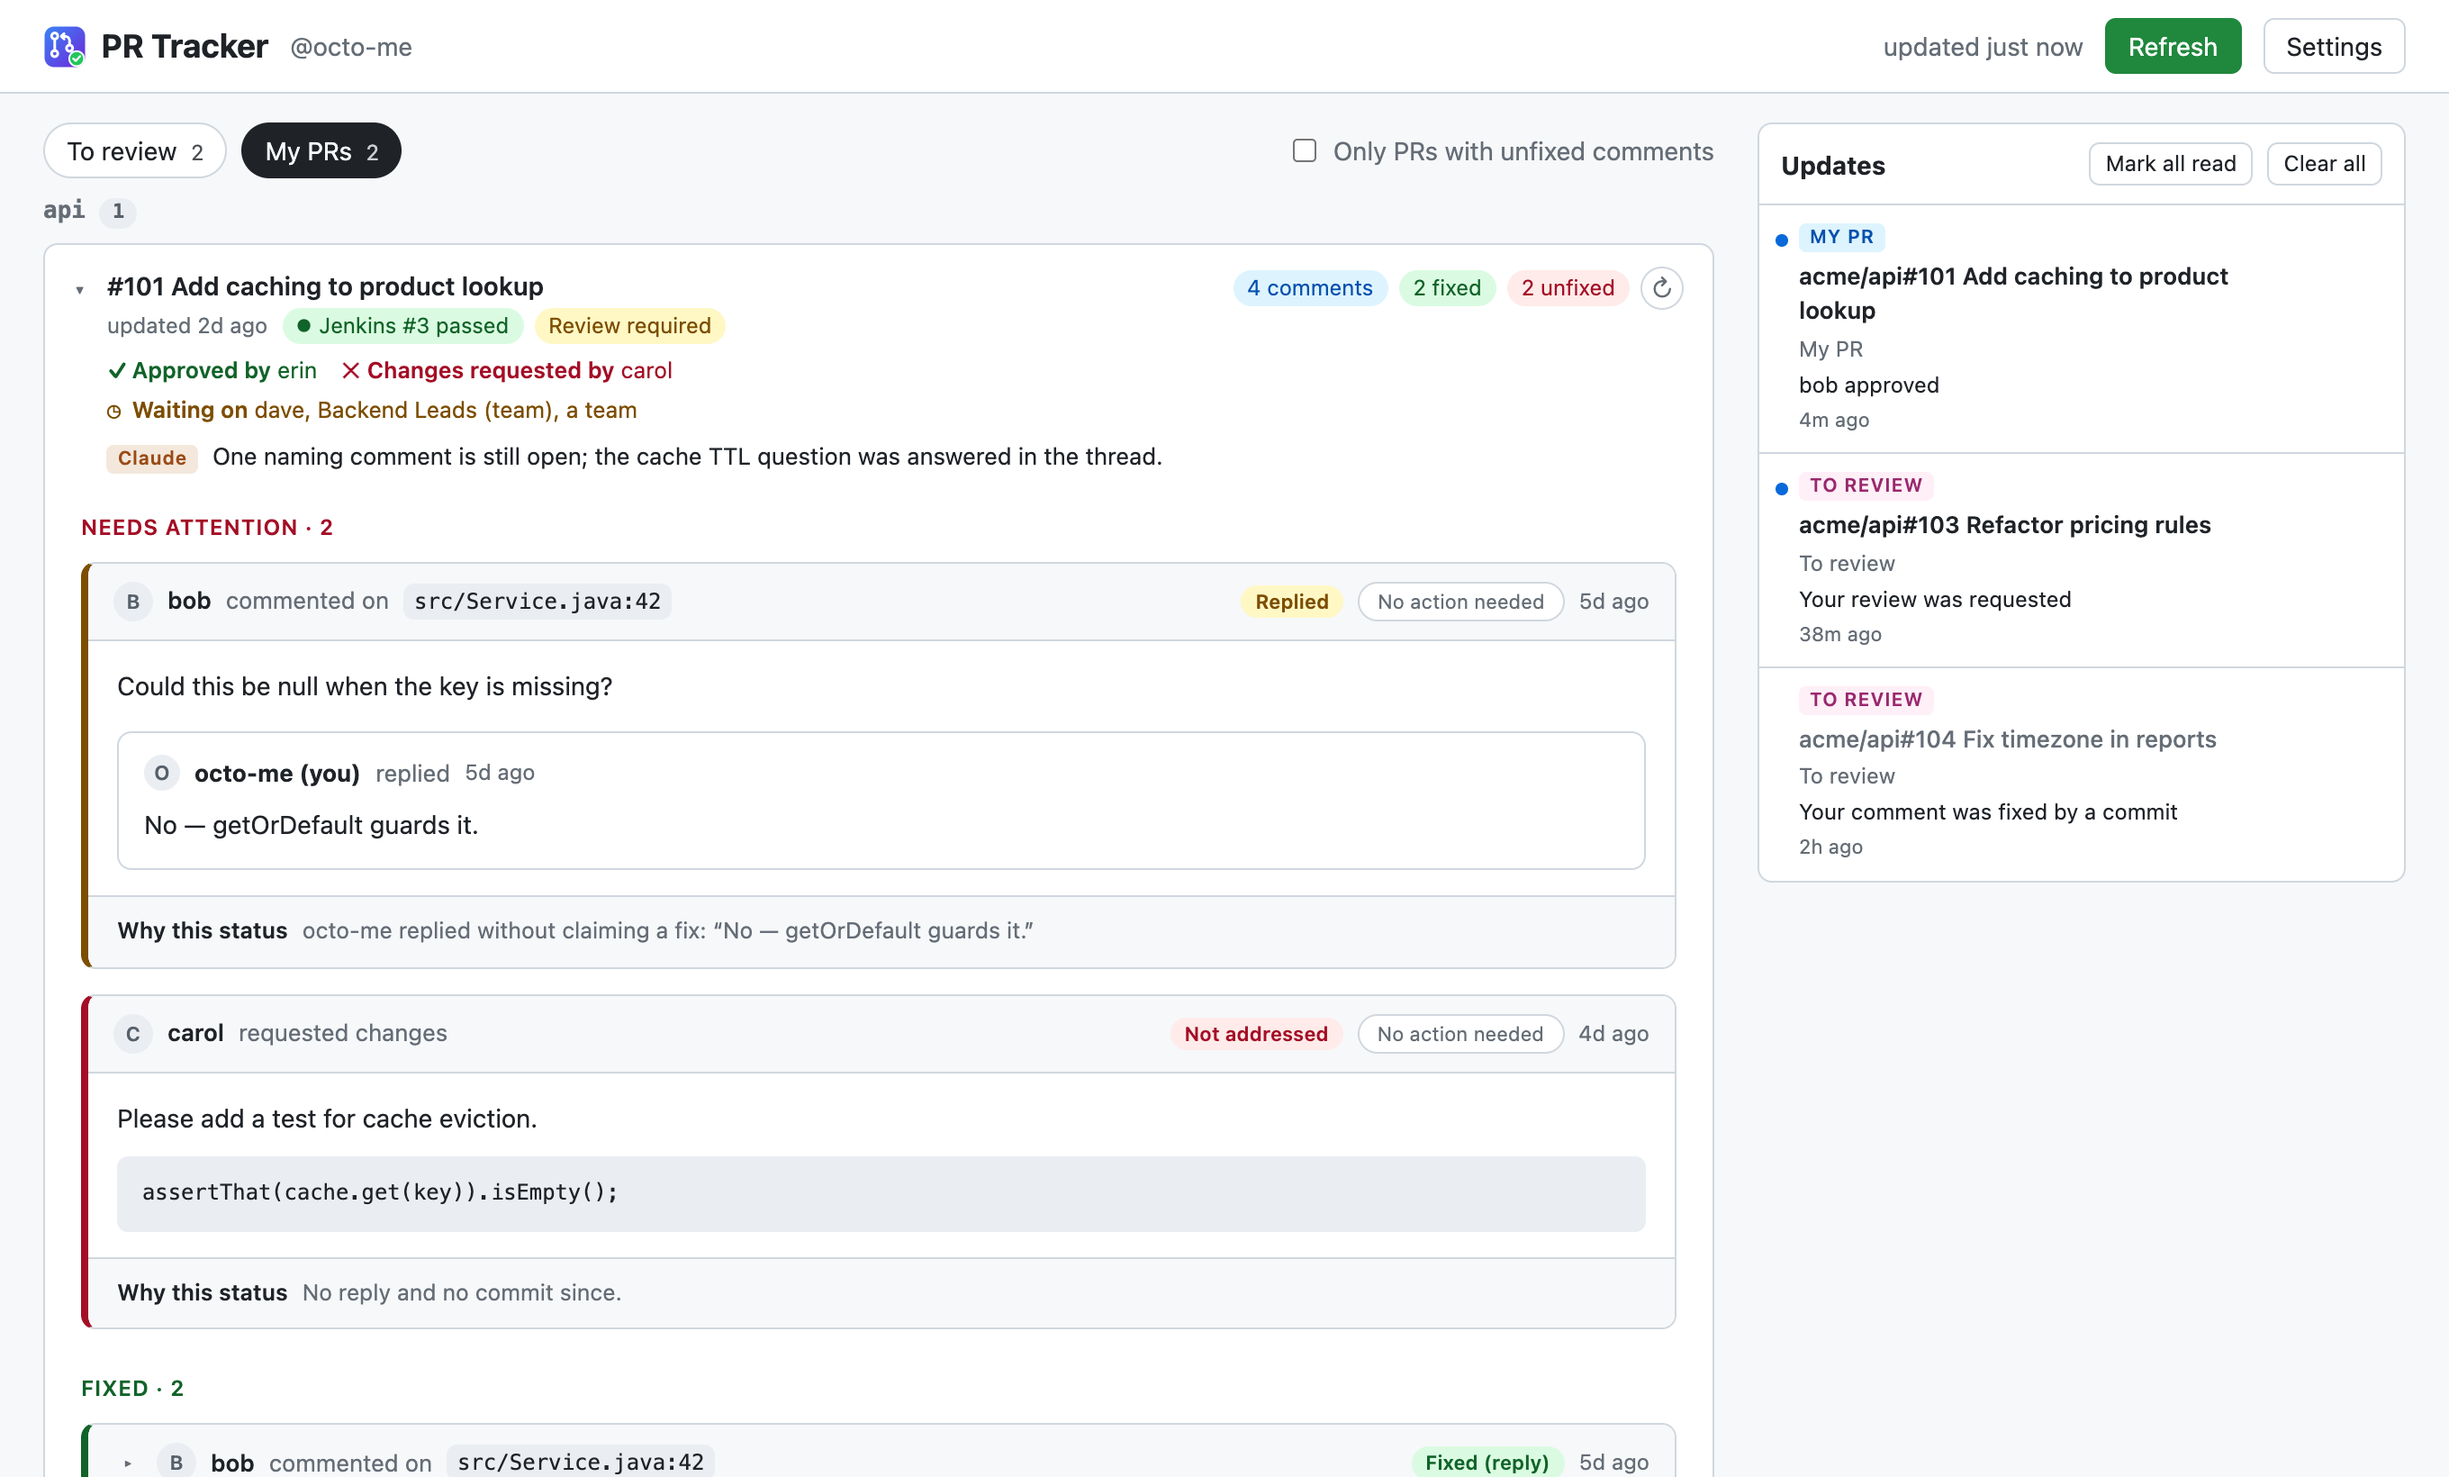
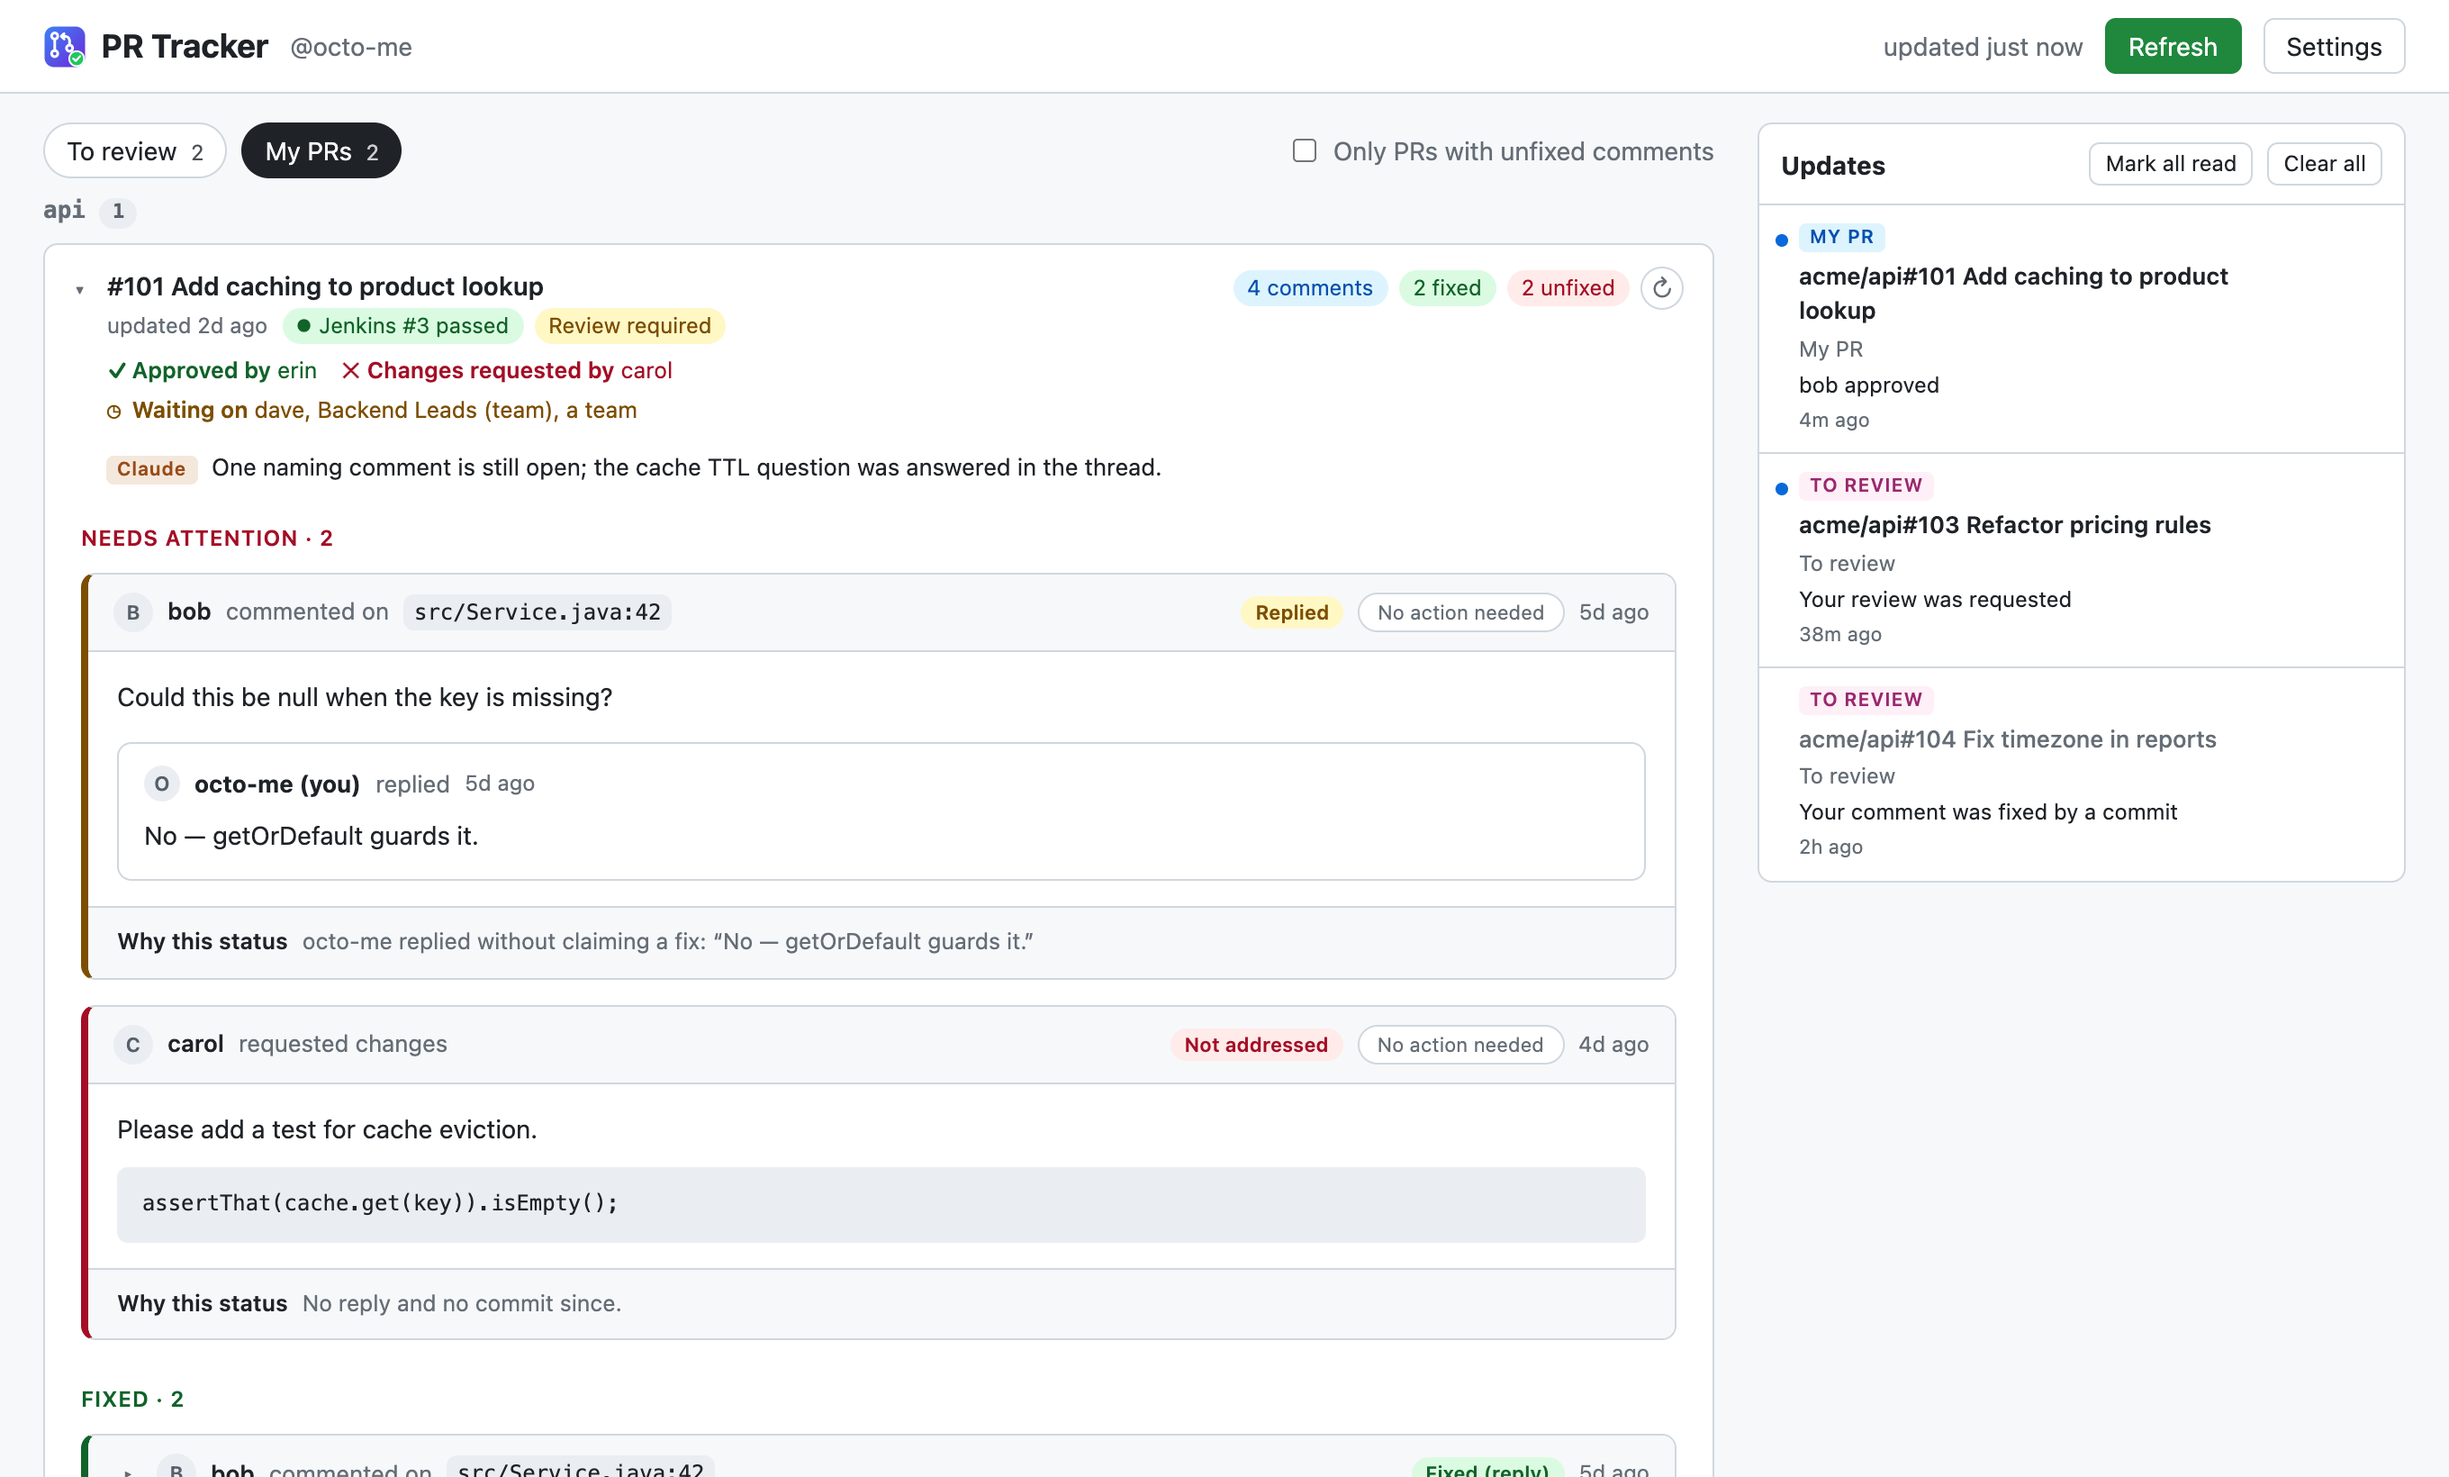
v0.9.2: Claude summary on its own row; Outdated tag
The summary sat squeezed beside the counts, with Summarize again wrapping
onto two lines and '(outdated…)' reading as part of Claude's sentence.
It now spans the card under the title and counts; the button stays on
one line; an outdated summary is dimmed with a separate Outdated tag.

diff --git a/pages/app.css b/pages/app.css
@@ -257,8 +257,12 @@ a.chip.build:hover { text-decoration: underline; }
 .s-ai-fixed { background: var(--ok-bg); color: var(--ok-fg); }
 .s-ai-unfixed { background: var(--bad-bg); color: var(--bad-fg); }
 .status.by-claude::after { content: " · Claude"; font-weight: 500; opacity: .75; }
-.ai-summary { margin: 6px 0 0; font-size: 13px; line-height: 1.5; color: var(--fg); display: flex; gap: 8px; align-items: baseline; }
-.ai-ask { font-size: 12px; padding: 1px 10px; border-radius: 999px; }
+/* Its own row under the title and the counts, lined up with the title (past the ▸). */
+.ai-summary { flex: 1 0 100%; margin: 0; padding-left: 18px; font-size: 13px; line-height: 1.5; color: var(--fg); display: flex; flex-wrap: wrap; gap: 4px 8px; align-items: baseline; }
+.ai-summary-text { flex: 1 1 320px; min-width: 0; }
+.ai-summary.stale .ai-summary-text { color: var(--muted); }
+.ai-stale { flex: none; font-size: 10.5px; font-weight: 600; letter-spacing: .03em; padding: 0 6px; border-radius: 4px; background: var(--warn-bg); color: var(--warn-fg); }
+.ai-ask { flex: none; white-space: nowrap; font-size: 12px; padding: 1px 10px; border-radius: 999px; }
 .ai-mark { flex: none; font-size: 10.5px; font-weight: 600; letter-spacing: .03em; padding: 0 6px; border-radius: 4px; background: #f4e8dc; color: #9a4b16; }
 @media (prefers-color-scheme: dark) { .ai-mark { background: #3b2618; color: #f0a877; } }
 

diff --git a/docs/install.html b/docs/install.html
@@ -141,13 +141,13 @@
 
 <div class="wrap">
   <header>
-    <span class="eyebrow">Internal Chrome extension · v0.9.1</span>
+    <span class="eyebrow">Internal Chrome extension · v0.9.2</span>
     <h1>PR Tracker</h1>
     <p class="lede">One tab with your open pull requests and the ones waiting on your review, plus every comment from a real person (bots left out) and whether it's been fixed. You get a desktop alert when something changes.</p>
     <div class="actions">
-      <a class="btn" href="pr-tracker-0.9.1.zip" target="_blank" rel="noopener">
+      <a class="btn" href="pr-tracker-0.9.2.zip" target="_blank" rel="noopener">
         <svg viewBox="0 0 24 24" fill="none" stroke="currentColor" stroke-width="2" stroke-linecap="round" stroke-linejoin="round" aria-hidden="true"><path d="M12 3v12"/><path d="m7 10 5 5 5-5"/><path d="M5 21h14"/></svg>
-        Download pr-tracker-0.9.1.zip
+        Download pr-tracker-0.9.2.zip
       </a>
       <span class="meta">85 KB · Chrome 116+ · github.com (+ optional Jenkins, Claude)</span>
     </div>

diff --git a/pages/app.html b/pages/app.html
@@ -141,9 +141,9 @@
                 <span class="chips"></span>
               </div>
               <div class="approvals" hidden></div>
-              <p class="ai-summary" hidden><span class="ai-mark" title="Summary by Claude">Claude</span><span class="ai-summary-text"></span><button type="button" class="ai-ask" hidden>Summarize</button></p>
             </div>
             <div class="tally"></div>
+            <p class="ai-summary" hidden><span class="ai-mark" title="Summary by Claude">Claude</span><span class="ai-summary-text"></span><span class="ai-stale" title="The PR's comments, replies or commits changed after this summary" hidden>Outdated</span><button type="button" class="ai-ask" hidden>Summarize</button></p>
           </summary>
           <section class="cc-sessions" hidden>
             <h4>Claude Code sessions on this machine</h4>

diff --git a/pages/app.js b/pages/app.js
@@ -412,7 +412,10 @@ function renderPR(pr, viewer, showRepo) {
   const summary = /** @type {HTMLElement} */ (el.querySelector('.ai-summary'))
   const canAsk = state.claudeReady && pr.hasHumanComments
   summary.hidden = !pr.aiSummary && !canAsk
-  setText(el, '.ai-summary-text', pr.aiSummary ? `${pr.aiSummary}${pr.aiStale ? ' (outdated: the PR changed since)' : ''}` : '')
+  setText(el, '.ai-summary-text', pr.aiSummary ?? '')
+  const stale = /** @type {HTMLElement} */ (el.querySelector('.ai-stale'))
+  stale.hidden = !(pr.aiSummary && pr.aiStale)
+  summary.classList.toggle('stale', !!(pr.aiSummary && pr.aiStale))
   const mark = /** @type {HTMLElement} */ (el.querySelector('.ai-mark'))
   mark.hidden = !pr.aiSummary
   const ask = /** @type {HTMLButtonElement} */ (el.querySelector('.ai-ask'))
